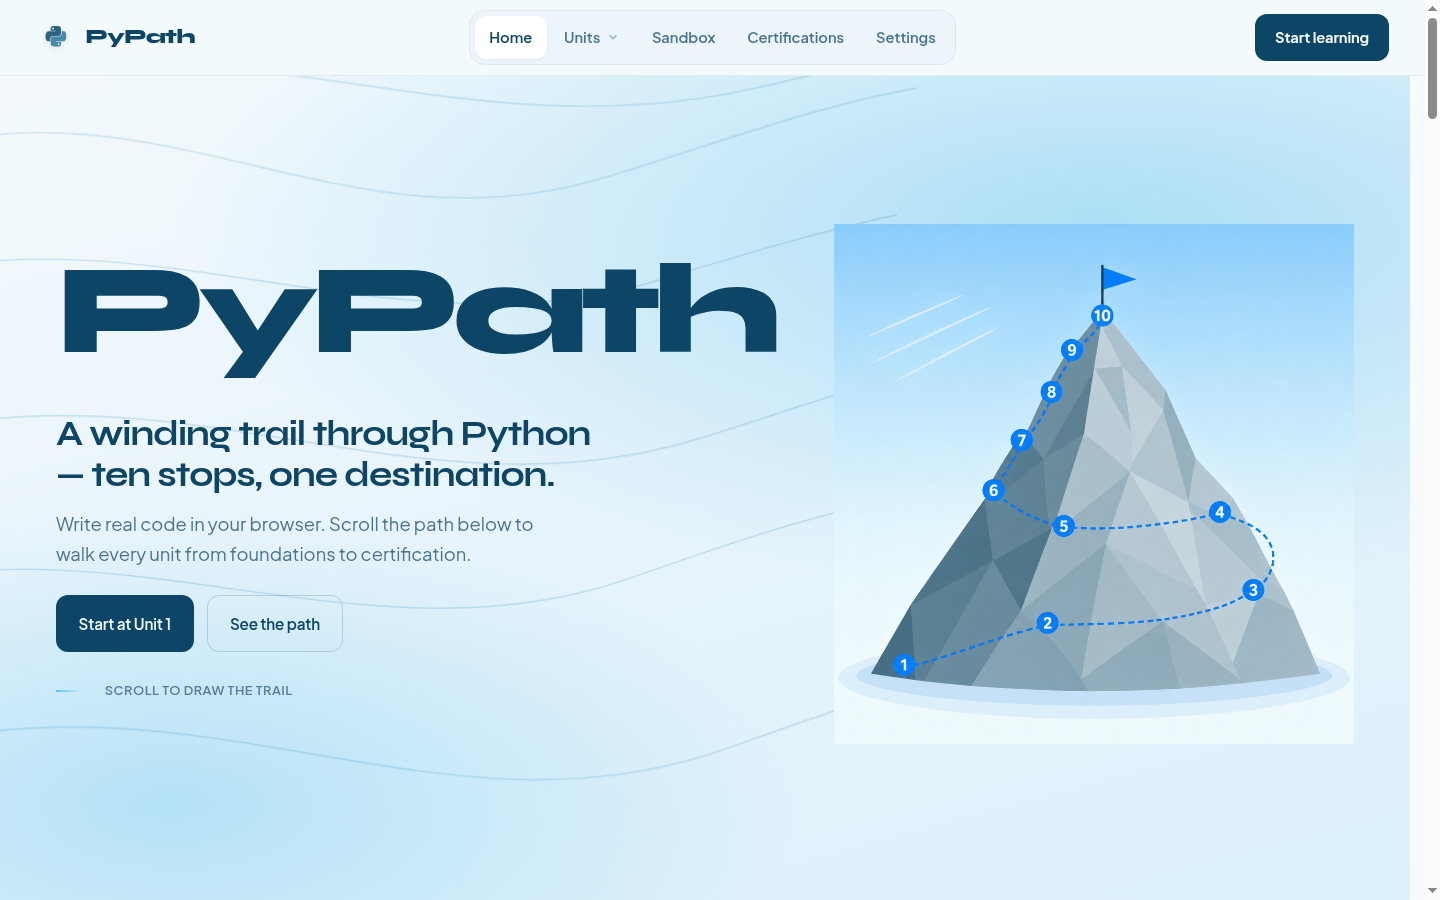
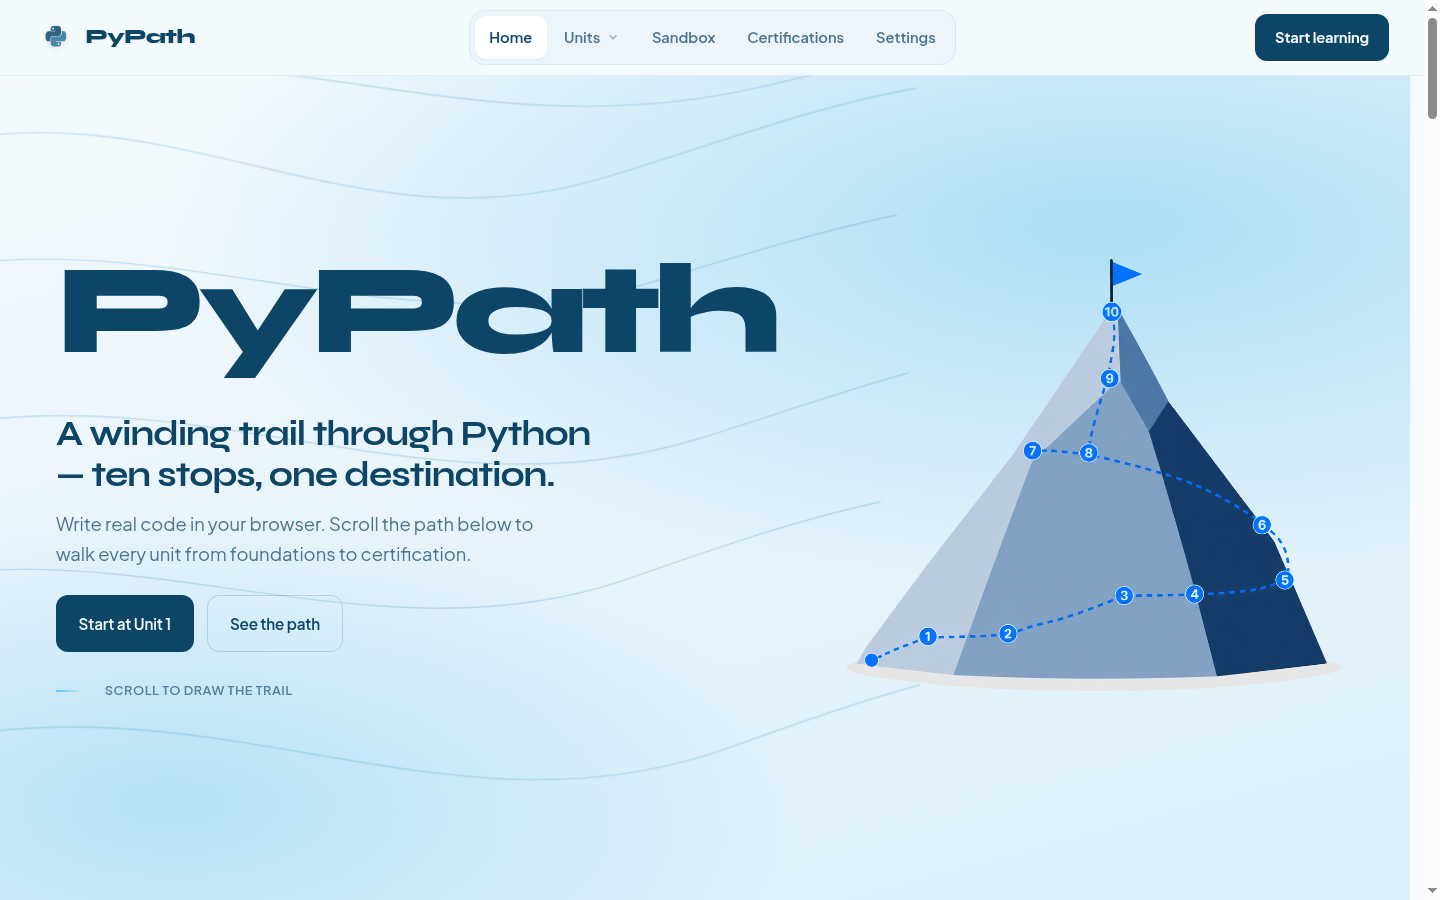
Use transparent Summit PNG with no sky background
Replace the opaque Summit graphic with an RGBA PNG so the landing
page background shows through around the mountain.

Changed region(s): [[0.5625, 0.2489, 0.9375, 0.8089]]

diff --git a/index.html b/index.html
@@ -115,7 +115,7 @@
           </div>
 
           <div class="home-summit">
-            <!-- Static Summit graphic — no canvas, no animation -->
+            <!-- Static Summit — transparent PNG (no sky box) -->
             <img
               class="home-summit__art"
               src="assets/img/summit.png"

diff --git a/assets/css/home-path.css b/assets/css/home-path.css
@@ -282,6 +282,7 @@ body.page-home {
   height: auto;
   aspect-ratio: 1 / 1;
   object-fit: contain;
+  background: transparent;
 }
 
 .home-hero__headline {